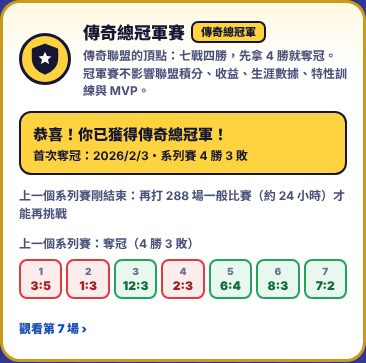
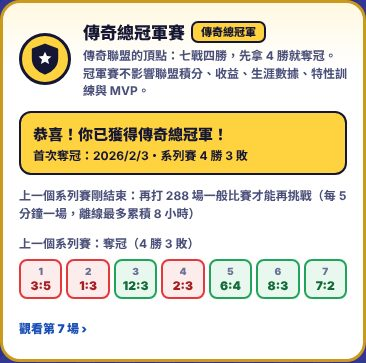
fix(v2): 冷卻文字改成場數（離線最多 8 小時）；平衡報告補上效能、相容性與風險
Claude-Session: https://claude.ai/code/session_013QxCXYjifGtC4aquzL9dBW

Changed region(s): [[0.6913, 0.5152, 0.9617, 0.5758], [0.0301, 0.5758, 0.541, 0.6061]]

diff --git a/src/v2/ui/championshipCard.ts b/src/v2/ui/championshipCard.ts
@@ -6,7 +6,6 @@ import type { PlayGameOutcome } from '../application/championshipService'
 import { CHAMPIONSHIP_CONFIG, championshipView, type ChampionshipView, type SeriesGame } from '../domain/championship'
 import type { ClubSave } from '../domain/club'
 import { leagueOf } from '../domain/league'
-import { IDLE_CONFIG } from '../domain/config'
 import { announceModal, type CloseReason } from './dialog'
 import { icon } from './icons'
 import { V2T } from './strings'
@@ -27,10 +26,6 @@ export function showsChampionship(club: ClubSave): boolean {
 const dateText = (ms: number) => {
   const d = new Date(ms)
   return `${d.getFullYear()}/${d.getMonth() + 1}/${d.getDate()}`
-}
-const hoursText = (matches: number) => {
-  const h = (matches * IDLE_CONFIG.MATCH_INTERVAL_MS) / 3_600_000
-  return h >= 1 ? `${Math.ceil(h)} 小時` : `${Math.ceil(h * 60)} 分鐘`
 }
 
 /** 七場的小格子：打過的顯示勝敗與比分，還沒打的是空格 */
@@ -123,7 +118,7 @@ export function championshipCard(club: ClubSave, state: { busy: boolean; canWrit
     start.dataset.seq = String(v.nextSeriesSeq)
     card.append(start)
   } else if (v.status === 'cooldown') {
-    card.append(el('p', 'v2-champ-cooldown', V2T.champCooldown(v.eligibility.cooldown.remaining, hoursText(v.eligibility.cooldown.remaining))))
+    card.append(el('p', 'v2-champ-cooldown', V2T.champCooldown(v.eligibility.cooldown.remaining)))
   } else if (v.status === 'not-eligible') {
     const missing = [v.eligibility.matches, v.eligibility.winRate, v.eligibility.points].filter((x) => !x.ok).length
     const h = el('p', 'v2-champ-need-head')

diff --git a/src/v2/ui/strings.ts b/src/v2/ui/strings.ts
@@ -680,7 +680,7 @@ export const V2T = {
   champNeedRate: (rate: number, games: number, need: number, window: number) => (games < window ? `最近 ${window} 場勝率 ≥ ${Math.round(need * 100)}%（目前只打了 ${games} 場）` : `最近 ${window} 場勝率 ${Math.round(rate * 100)}%（需要 ≥ ${Math.round(need * 100)}%）`),
   champNeedPoints: (have: number, need: number) => `競技積分 ${have}（需要 ≥ ${need}）`,
   champMissing: (n: number) => `還差 ${n} 個條件`,
-  champCooldown: (n: number, hours: string) => `上一個系列賽剛結束：再打 ${n} 場一般比賽（約 ${hours}）才能再挑戰`,
+  champCooldown: (n: number) => `上一個系列賽剛結束：再打 ${n} 場一般比賽才能再挑戰（每 5 分鐘一場，離線最多累積 8 小時）`,
   champReady: '已經達到資格，可以挑戰總冠軍賽！',
   champOpponent: (name: string, style: string) => `對手：${name}（${style}打線）・比傳奇聯盟的一般對手更強`,
   champStart: '開始系列賽',

diff --git a/src/v2/domain/championship.ts b/src/v2/domain/championship.ts
@@ -36,9 +36,10 @@ export const CHAMPIONSHIP_CONFIG = {
   /** 冠軍隊的能力中心（傳奇一般對手 6.6、傳奇的晉級挑戰 6.85）。見 docs/balance/v2-phase10-championship.md */
   opponentMean: 7.1,
   /**
-   * 系列賽結束（不管輸贏）後，要再打幾場一般比賽才能再開始下一個系列賽：288 場＝24 小時。
+   * 系列賽結束（不管輸贏）後，要再打幾場一般比賽才能再開始下一個系列賽：288 場（連續遊玩 24 小時；
+   * 離線最多算 96 場，所以每天上線 2 次大約要 1.5 天）。
    * 96 場（8 小時）時強隊每次上線都能再打一輪（120 天最多 167 個系列賽），冠軍次數失去意義；
-   * 改成 24 小時，第一次奪冠的時間與挑戰次數幾乎不變（平衡報告 D 節）
+   * 改成 288 場，第一次奪冠的時間與挑戰次數幾乎不變（平衡報告 D 節）
    */
   retryAfterMatches: 288,
   /** 保留最近幾個已結束的系列賽 */

diff --git a/docs/balance/v2-phase10-championship.md b/docs/balance/v2-phase10-championship.md
@@ -11,7 +11,7 @@
 |---|---|---|
 | 資格 | 傳奇、本聯盟 ≥ 100 場、最近 60 場勝率 ≥ 60%、積分 ≥ 70 | A 節：新晉級不可能馬上有資格；到傳奇後平均 17.6 天有資格；積分門檻從不卡人但成本為零 |
 | 冠軍隊強度 | **7.1** | B 節：第一次有資格的普通球隊系列賽 20.5%、最強的隊伍類型也不超過 30%；C 節：12 個種子 11 個在 120 天內奪冠、平均挑戰 2.2 次 |
-| 冷卻 | **COOLDOWN_RESULT** | D 節 |
+| 冷卻 | **288 場一般比賽** | D 節：第一次奪冠的時間與次數不變，重複奪冠從最多 167 個系列賽降到 62 個 |
 | 獎勵 | 方案 A（只有榮譽） | 不碰經濟不變量 |
 | 需要全隊 Lv.20 嗎 | 不需要 | 第一次有資格時平均等級 9.4～19.8，大多在第一次有資格的幾天內奪冠 |
 
@@ -116,16 +116,45 @@
 
 ## D. 冷卻
 
-COOLDOWN_SECTION
+冠軍隊 7.1、同樣 12 個種子，只改系列賽結束後的冷卻：
+
+| 冷卻 | 第一次奪冠（天，平均） | 30／60／90／120 天內奪冠 | 奪冠前挑戰 | 第一次有資格 → 奪冠 | 120 天的系列賽（中位數／最多） | 冠軍次數（中位數／最多） |
+|---|---|---|---|---|---|---|
+| 96 場（＝離線一次的上限） | 53.6（11/12） | 2／7／9／11 | 2.2 | 8.0 天 | 24／167 | 11／106 |
+| **288 場（連續遊玩 24 小時；這個玩家模型約 1.5 天）** | **54.0（11/12）** | **2／7／9／11** | **2.2** | **8.3 天** | **18／62** | **7／36** |
+
+- 96 場正好是離線一次能累積的上限，等於沒有冷卻：強隊每次上線都再打一輪，120 天可以拿到上百座冠軍，「冠軍次數」失去意義。
+- 288 場：第一座冠軍幾乎不受影響（大多數球團第一次有資格就奪冠，中位數 0 天；輸了以後，真正擋住下一次挑戰的是資格，不是冷卻）。
+- 冠軍賽只有榮譽、不發資源，所以就算更頻繁也不會影響經濟；冷卻只是讓「冠軍」維持稀有。
 
 ## E. 效能與存檔大小
 
-PERF_SECTION
+`npm run balance:v2:championship -- --part=P`：V13 fixture 遷移後（傳奇、3,167 場、13 位有 MVP、訓練中），打 10 個系列賽。
+
+| 項目 | 數值 |
+|---|---|
+| 單場冠軍賽（含鎖、結算檢查、模擬、存檔），中位數／最大 | 8.8 ms／30.2 ms（58 場） |
+| 一個系列賽（開始 + 打到分出勝負，4～7 場），中位數 | 72.2 ms |
+| V13 存檔 | 126.0 KB |
+| V14 存檔（遷移後，沒有冠軍賽） | 126.1 KB（+170 bytes） |
+| V14 存檔（系列賽進行中，最大） | 139.0 KB（+12.8 KB：冠軍隊 + 最近一場 Replay） |
+
+放置結算（`bench:v2:idle`，冠軍賽不在結算路徑上）：96 場 270.9 ms、最高聯盟 96 場 196.9 ms，跟 Phase 9 同一個量級（這台 VM 單次量測有約 ±30% 的雜訊）。`bench:v2:mvp`、`bench:v2:traits` 的分段與寫入失敗重試結果照舊。
 
 ## F. 既有的平衡與結算不受影響
 
-COMPAT_SECTION
+- `balance:v2`：輸出跟 main（db4176b）逐字相同。
+- `balance:v2:tactics`：所有統計欄位跟 main 相同，只有最後一欄（每場耗時 ms）不同。
+- `balance:v2:ranked`：84 個工作的每日聯盟軌跡與降級次數跟 main 逐一相同（總共 5 次降級）；資料檔已還原。
+- `balance:v2:traits`、`balance:v2:mvp`：正常完成。
+- 測試：V13 fixture 遷移後**中途打 3 場冠軍賽**，再離線結算 96 場，逐場與最後狀態跟 main 產生的 golden 相同；既有的 Golden 全部沒有重新產生。
 
 ## G. 未解決的風險
 
-RISK_SECTION
+1. **樣本小**：C 節 7.1 只有 12 個種子、其他強度 6 個；B 節每格 1,200 場（標準誤約 ±1.4%）。7.1 的結論對 ±0.1 的調整不敏感（6.9 與 7.3 的第一次奪冠天數都在同一個範圍），但個別種子的天數有很大的運氣成分。
+2. **只模擬一種玩家**：每天上線 2 次、平均升級、均衡戰術、有資格就打完。上線很少的玩家會錯過「有資格」的窗口（資格只在傳奇期間 11～17% 的時間成立），第一座冠軍可能比報告晚；之後可以考慮「開始系列賽後保留資格」以外的設計（例如資格改看較長的視窗），但目前沒有數據支持改動。
+3. **資格與熱手**：資格（最近 60 場 ≥ 60%）多半在熱手時出現，B 節顯示當下的真實實力只有對傳奇一般對手 45%。這讓「開始系列賽」的時機有運氣成分；冠軍賽本身用的是真實實力。
+4. **冷卻只看一般比賽場數**：離線最多算 8 小時（96 場），所以 288 場的冷卻至少要三次上線才會結束（不是固定 24 小時）；上線很少的玩家會覺得比較久。這是刻意的（冠軍維持稀有），但如果之後要做賽季，可能要改成用時間。
+5. **冠軍隊每個系列賽不同**：隊名固定、陣容由序號決定；B 節用 25 種陣容輪替量測，個別陣容的強弱有差（系列賽之間難度不完全一樣）。
+6. **存檔大小**：進行中的系列賽多存一支球隊與一份 Replay（見 E 節）；仍遠低於 localStorage 的上限，但跟一般比賽的 Replay 一樣，是存檔裡最大的幾個欄位。
+7. **時間顯示**：首次奪冠日期用裝置的本地時間顯示（存的是 epoch 毫秒）。

diff --git a/docs/phase10-championship-rfc.md b/docs/phase10-championship-rfc.md
@@ -21,14 +21,14 @@
 | 傳奇聯盟出賽 | ≥ 100 場 | 沿用 `PROMOTION_CONFIG.minMatches` |
 | 最近 60 場勝率 | ≥ 60%（不足 60 場不算達標） | 沿用 `PROMOTION_CONFIG.window／winRate` |
 | 競技積分 | ≥ 70 | 新增 `CHAMPIONSHIP_CONFIG.minPoints` |
-| 冷卻 | 上一個系列賽結束後再打 288 場一般比賽（24 小時） | `CHAMPIONSHIP_CONFIG.retryAfterMatches` |
+| 冷卻 | 上一個系列賽結束後再打 288 場一般比賽（連續遊玩 24 小時；離線最多算 96 場，每天上線 2 次約 1.5 天） | `CHAMPIONSHIP_CONFIG.retryAfterMatches` |
 
 理由（數據見平衡報告 A 節）：
 
 - **新晉級的球團不可能馬上有資格**：晉級時本聯盟場數歸零，至少要再打 100 場（約 8.3 小時）。6 個種子都沒有「晉級當下就有資格」。
 - **到傳奇後多久有資格**：MVP 成長開啟時平均 17.6 天（6/6 個球團都達到），關閉時 15.3 天（5/6）。
 - **積分門檻 70 從來不是卡住的條件**：門檻 0／60／70／80 的「第一次有資格」完全相同——最近 60 場勝率 ≥ 60% 時，積分（勝 +3、敗 −2）一定在 70 以上。保留它是因為它跟「保級安全」的意義一致，而且成本為零；如果之後積分規則改變，它會擋住「勝率剛好夠但積分在危險區」的球團。
-- **冷卻 24 小時**：資格才是真正卡住第一座冠軍的條件（傳奇期間只有 11～17% 的時間有資格）。冷卻 8 小時時，強隊每次上線都能再打一輪（120 天最多 167 個系列賽、106 座冠軍），冠軍次數失去意義；改成 24 小時，第一次奪冠的天數、挑戰次數、30／60／90／120 天的奪冠人數都幾乎不變（平衡報告 D 節），重複奪冠降到最多 62 個系列賽。
+- **冷卻 288 場**：資格才是真正卡住第一座冠軍的條件（傳奇期間只有 11～17% 的時間有資格）。冷卻 96 場時（等於離線一次的上限），強隊每次上線都能再打一輪（120 天最多 167 個系列賽、106 座冠軍），冠軍次數失去意義；改成 288 場，第一次奪冠的天數、挑戰次數、30／60／90／120 天的奪冠人數都幾乎不變（平衡報告 D 節），重複奪冠降到最多 62 個系列賽。
 - **MVP +0.3 不會讓資格過度提前**：MVP 成長讓「到傳奇」提早約 9 天（46.5 → 37.2 天），但「到傳奇後到有資格」沒有縮短（15.3 → 17.6 天，樣本小、差異在雜訊內）。
 
 ## 3. 狀態機（交付 2）
